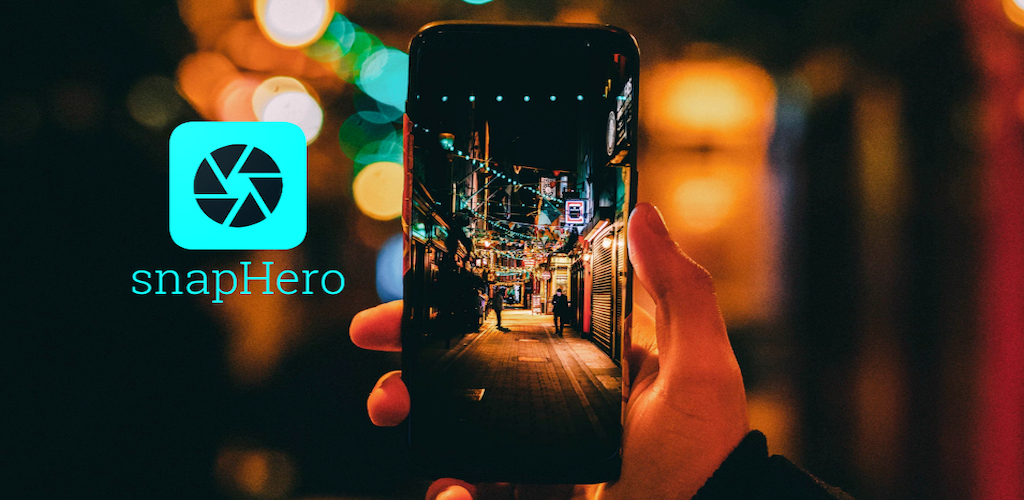
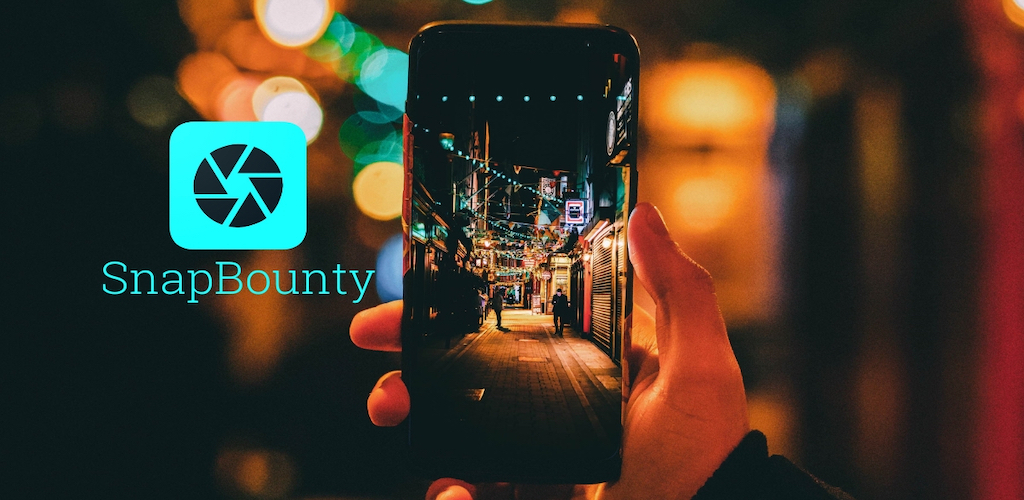
Update screenshots with new snapBounty naming

diff --git a/README.md b/README.md
@@ -1,6 +1,6 @@
-# snapHero
+# SnapBounty
 
-[![Codemagic build status](https://api.codemagic.io/apps/5cc4077b572d3c1c16eb788a/5cc4077b572d3c1c16eb7889/status_badge.svg)](https://codemagic.io/apps/5cc4077b572d3c1c16eb788a/5cc4077b572d3c1c16eb7889/latest_build)
+[![Codemagic build status](https://api.codemagic.io/apps/5cce565044381500175b547e/5cce565044381500175b547d/status_badge.svg)](https://codemagic.io/apps/5cce565044381500175b547e/5cce565044381500175b547d/latest_build)
 
 Flutter Application utilizing Google Firebase and MLkit.
 
@@ -8,7 +8,7 @@ Flutter Application utilizing Google Firebase and MLkit.
 
 ## Download
 
-[<img src="https://play.google.com/intl/en_us/badges/images/generic/en_badge_web_generic.png" href="http://google.com" width="20%" height="20%">](https://play.google.com/store/apps/details?id=com.snap.hero)
+[<img src="https://play.google.com/intl/en_us/badges/images/generic/en_badge_web_generic.png" href="http://google.com" width="20%" height="20%">](https://play.google.com/store/apps/details?id=com.cbeardsmore.snapbounty)
 
 ## Build and Run
 
